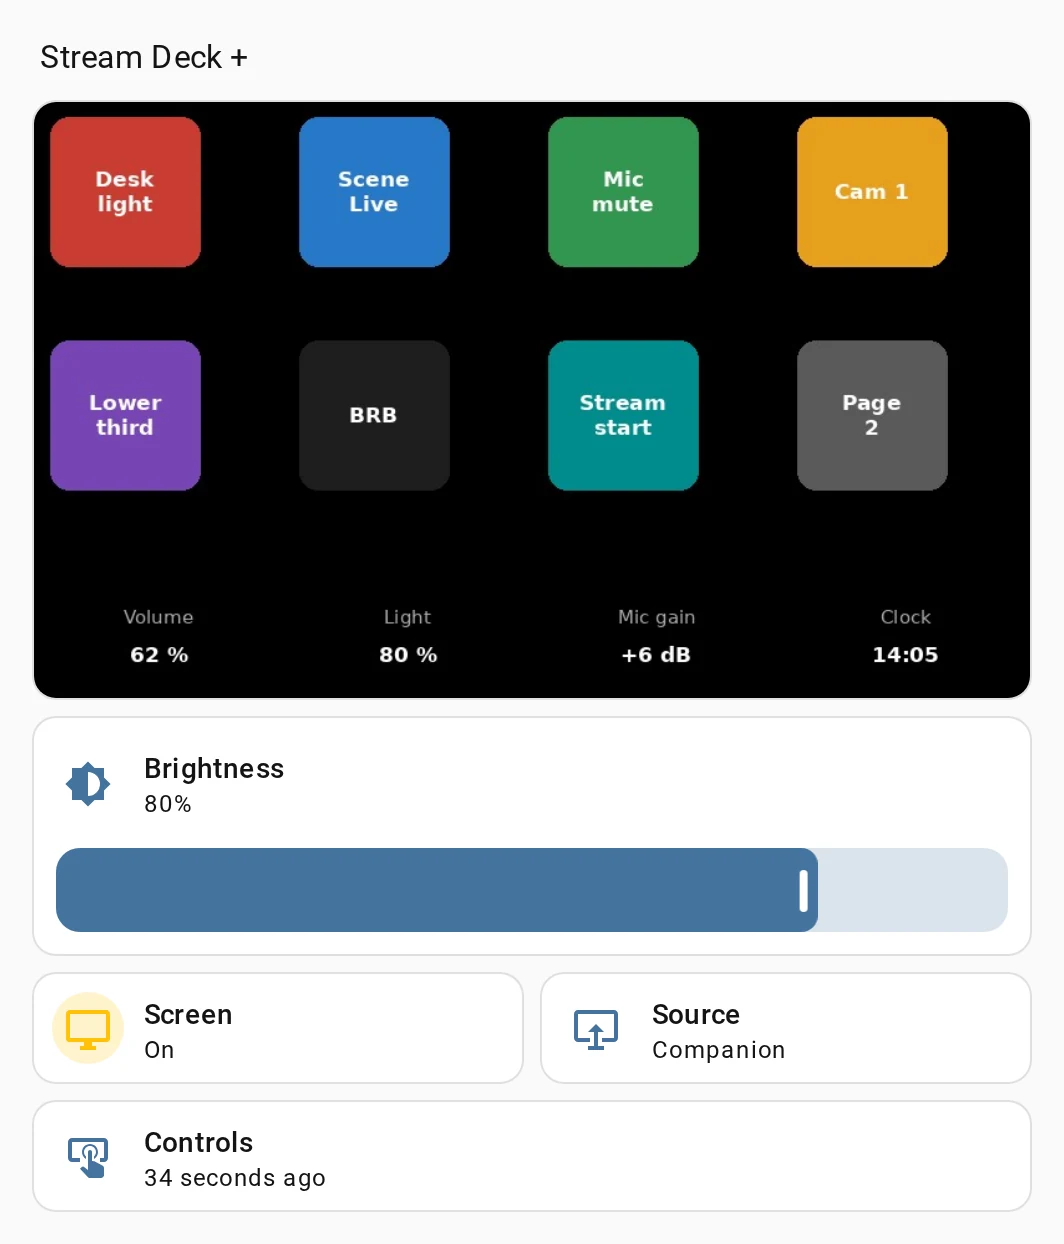
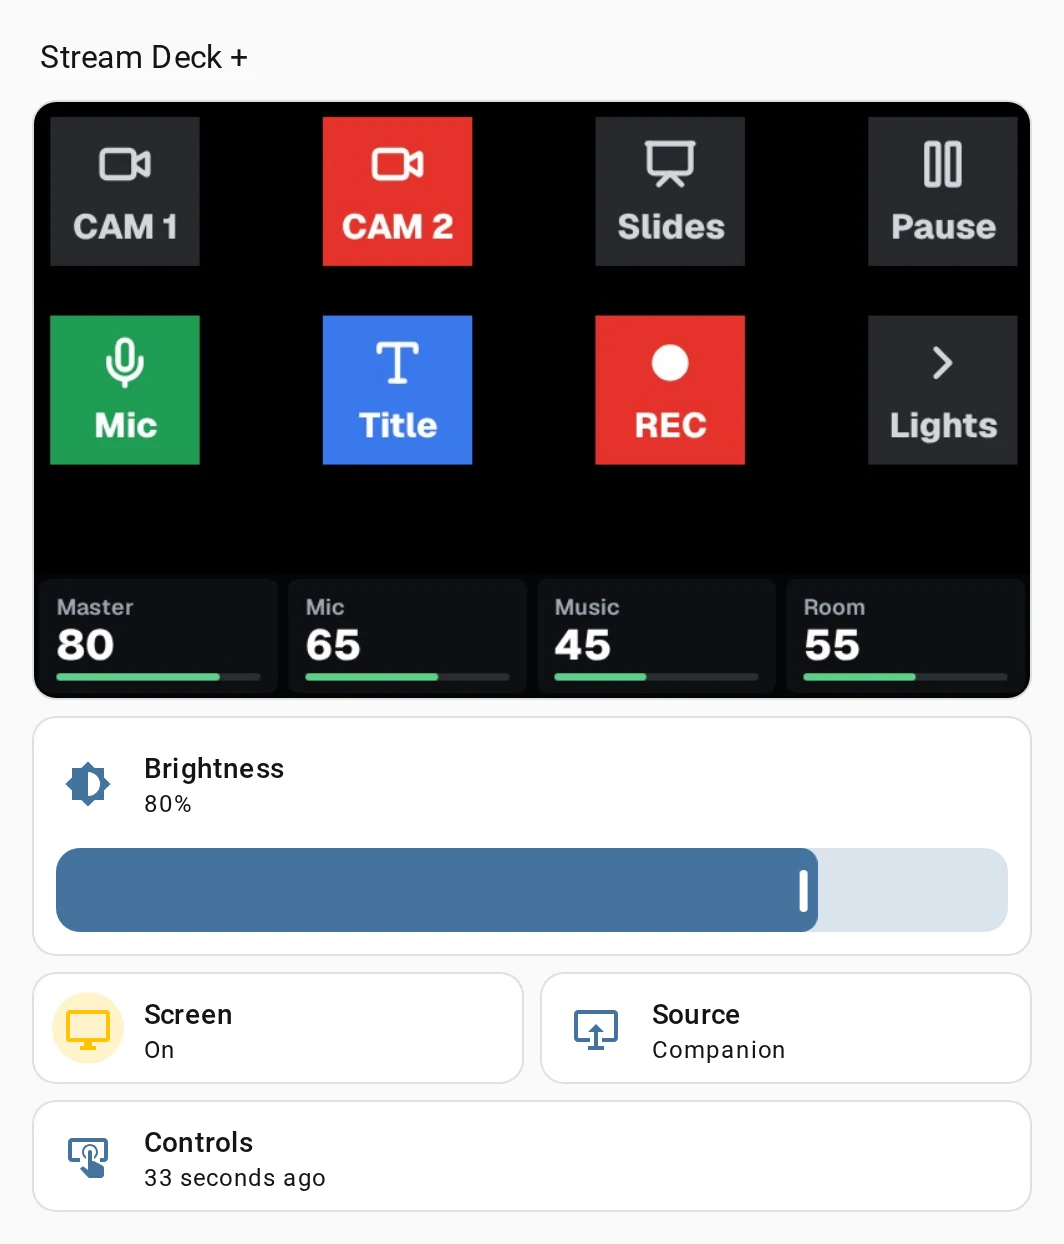
README: pictures first, the web UI GIF re-recorded and Home Assistant shown by its device pages; demo keys are grey when off and one colour per meaning when on

diff --git a/web/src/demo/model.ts b/web/src/demo/model.ts
@@ -1028,10 +1028,18 @@ export type Face = { keys: KeyFace[]; strip: { zones: StripZone[] } } | { ui: nu
 
 const pad = (n: number) => String(n).padStart(2, '0')
 
-const AMBER = '#ffb020'
-const TILE = '#2b2d31'
-const VIOLET = '#9b7bff'
-const INK = '#1a1200'
+const OFF = '#26282c'
+const GREY = '#d4d7dc'
+const C = {
+  live: { on: '#e5322b', fg: '#ff7b70', ink: '#fff' },
+  audio: { on: '#1f9d55', fg: '#5fd08c', ink: '#fff' },
+  light: { on: '#f5a524', fg: '#f5b748', ink: '#1a1200' },
+  show: { on: '#3a78ee', fg: '#82a9ff', ink: '#fff' },
+  nav: { on: '#3a3d43', ink: '#fff' },
+}
+const key = (t: string, site: SiteIcon, c: keyof typeof C, on = false): KeyFace =>
+  on ? { t, site, bg: C[c].on, fg: C[c].ink } : { t, site, bg: OFF, fg: GREY }
+const mic = (on: boolean) => (on ? key('Mic', 'mic', 'audio', true) : key('Muted', 'mic-off', 'live'))
 
 function faceEn(s: Demo, now: number): Face {
   const f = s.faces
@@ -1041,20 +1049,17 @@ function faceEn(s: Demo, now: number): Face {
   // The bridge's own screen: the firmware's db_ui code draws it (deck-ui.ts).
   if (w === 'ui') return { ui: ui(s, now, (u) => u.deck_screen(s.ota ? 1 : 0), uiModel(s, now)) }
   if (w === 'satellite' || isCompDock(s, w)) {
-    // The show page of the animations on the website: same labels, same colours.
     if (f.page === 0)
       return {
         keys: [
-          ...(['CAM 1', 'CAM 2', 'Slides'] as const).map((t, i): KeyFace => ({
-            t,
-            site: i < 2 ? 'cam' : 'slides',
-            bg: f.scene === i ? '#ff4b3e' : TILE,
-          })),
-          { t: 'Pause', site: 'pause', bg: f.pause ? VIOLET : TILE, fg: f.pause ? '#140d26' : undefined },
-          f.mic ? { t: 'ON', site: 'mic', bg: '#30c060' } : { t: 'OFF', site: 'mic', bg: TILE, fg: '#ff7a70' },
-          { t: 'Title', site: 'title', bg: f.title ? AMBER : TILE, fg: f.title ? INK : undefined },
-          { t: 'REC', site: 'rec', bg: TILE, dot: f.rec ? '#ff4b3e' : '#5a2420' },
-          { t: 'Lights', site: 'next', bg: TILE },
+          ...(['CAM 1', 'CAM 2', 'Slides'] as const).map((t, i) =>
+            key(t, i < 2 ? 'cam' : 'slides', 'live', f.scene === i),
+          ),
+          key('Pause', 'pause', 'show', f.pause),
+          mic(f.mic),
+          key('Title', 'title', 'show', f.title),
+          { ...key('REC', 'rec', 'live', f.rec), dot: f.rec ? '#fff' : C.live.fg },
+          key('Lights', 'next', 'nav'),
         ],
         strip: {
           zones: ['Master', 'Mic', 'Music', 'Room'].map((t, i) => ({
@@ -1062,20 +1067,18 @@ function faceEn(s: Demo, now: number): Face {
             v: f.vol[i] ?? 0,
             text: f.mute[i] ? 'muted' : String(f.vol[i]),
             off: f.mute[i],
-            color: i === 1 ? '#3ddc84' : '#ffb020',
+            color: C.audio.fg,
           })),
         },
       }
     return {
       keys: [
-        ...['Front', 'Fill', 'Rim'].map((t, i): KeyFace =>
-          f.lights[i] ? { t, site: 'light', bg: AMBER, fg: INK } : { t, site: 'light', bg: TILE },
-        ),
-        { t: 'BRB', site: 'coffee', bg: f.brb ? VIOLET : TILE, fg: f.brb ? '#140d26' : undefined },
-        { t: 'Wall', site: 'palette', bg: f.wall ? '#2f7dff' : TILE },
-        { t: 'All off', site: 'power', bg: TILE, fg: '#ff7a70' },
-        { t: clock, sub: 'Clock', bg: TILE, clock: true },
-        { t: 'Show', site: 'back', bg: TILE },
+        ...['Front', 'Fill', 'Rim'].map((t, i) => key(t, 'light', 'light', f.lights[i])),
+        key('BRB', 'coffee', 'show', f.brb),
+        key('Wall', 'palette', 'light', f.wall),
+        { ...key('All off', 'power', 'nav'), fg: C.live.fg },
+        { t: clock, sub: 'Clock', bg: OFF, fg: GREY, clock: true },
+        key('Show', 'back', 'nav'),
       ],
       strip: {
         zones: [
@@ -1084,14 +1087,14 @@ function faceEn(s: Demo, now: number): Face {
             v: f.light[0] ?? 0,
             text: f.lights[0] ? `${f.light[0]}%` : 'off',
             off: !f.lights[0],
-            color: '#ffcf5a',
+            color: C.light.fg,
           },
           {
             t: 'Fill',
             v: f.light[1] ?? 0,
             text: f.lights[1] ? `${f.light[1]}%` : 'off',
             off: !f.lights[1],
-            color: '#ffcf5a',
+            color: C.light.fg,
           },
           { t: 'Colour', v: (((f.light[2] ?? 4800) - 2900) / 4100) * 100, text: `${f.light[2]} K`, color: '#9fd3ff' },
           {
@@ -1099,7 +1102,7 @@ function faceEn(s: Demo, now: number): Face {
             v: f.light[3] ?? 0,
             text: f.lights[2] ? `${f.light[3]}%` : 'off',
             off: !f.lights[2],
-            color: '#ffcf5a',
+            color: C.light.fg,
           },
         ],
       },
@@ -1108,16 +1111,14 @@ function faceEn(s: Demo, now: number): Face {
   if (w.startsWith('dock'))
     return {
       keys: [
-        f.play ? { t: 'Pause', site: 'pause', bg: '#8c9cff', fg: '#0d1030' } : { t: 'Play', site: 'play', bg: TILE },
-        { t: 'Next', site: 'skip', bg: TILE },
-        f.lights[0] ? { t: 'Light', site: 'light', bg: AMBER, fg: INK } : { t: 'Light', site: 'light', bg: TILE },
-        f.appMute[3]
-          ? { t: 'Muted', site: 'mic-off', bg: TILE, fg: '#ff7a70' }
-          : { t: 'Mic', site: 'mic', bg: '#30c060' },
-        { t: 'Shot', site: 'camera', bg: TILE },
-        { t: 'Focus', site: 'moon', bg: f.focus ? VIOLET : TILE, fg: f.focus ? '#140d26' : undefined },
-        f.lights[1] ? { t: 'Desk', site: 'sun', bg: AMBER, fg: INK } : { t: 'Desk', site: 'sun', bg: TILE },
-        { t: clock, sub: 'Clock', bg: TILE, clock: true },
+        f.play ? key('Pause', 'pause', 'show', true) : key('Play', 'play', 'show'),
+        key('Next', 'skip', 'show'),
+        key('Light', 'light', 'light', f.lights[0]),
+        mic(!f.appMute[3]),
+        key('Shot', 'camera', 'show'),
+        key('Focus', 'moon', 'show', f.focus),
+        key('Desk', 'sun', 'light', f.lights[1]),
+        { t: clock, sub: 'Clock', bg: OFF, fg: GREY, clock: true },
       ],
       strip: {
         zones: ['System', 'Music', 'Browser', 'Mic'].map((t, i) => ({
@@ -1125,7 +1126,7 @@ function faceEn(s: Demo, now: number): Face {
           v: f.appVol[i] ?? 0,
           text: f.appMute[i] ? 'muted' : `${f.appVol[i]}%`,
           off: f.appMute[i],
-          color: '#8c9cff',
+          color: i === 3 ? C.audio.fg : C.show.fg,
         })),
       },
     }
@@ -1153,8 +1154,6 @@ const DE: Record<string, string> = {
   Room: 'Saal',
   Slides: 'Folien',
   Title: 'Titel',
-  ON: 'AN',
-  OFF: 'AUS',
   muted: 'stumm',
   Front: 'Haupt',
   Rim: 'Hinten',

diff --git a/web/src/demo/model.test.ts b/web/src/demo/model.test.ts
@@ -33,20 +33,17 @@ describe('demo bridge', () => {
 
   it('presses toggle keys, page over and turn dials within 0 to 100', () => {
     const s = demo()
-    expect(host(s).keys.map((k) => k.t)).toEqual(['CAM 1', 'CAM 2', 'Slides', 'Pause', 'ON', 'Title', 'REC', 'Lights'])
+    expect(host(s).keys.map((k) => k.t)).toEqual(['CAM 1', 'CAM 2', 'Slides', 'Pause', 'Mic', 'Title', 'REC', 'Lights'])
     input(s, T0, { key: 4 })
-    expect(host(s).keys[4]?.t).toBe('OFF')
+    expect(host(s).keys[4]?.t).toBe('Muted')
     input(s, T0, { encoder: 0, action: 'turn', ticks: 50 })
     expect(s.faces.vol[0]).toBe(100)
     input(s, T0, { key: 7 })
     expect(host(s).keys[0]?.t).toBe('Front')
     expect(s.inputs.map((e) => e.kind)).toEqual(['key_down', 'key_up', 'encoder_turn', 'key_down', 'key_up'])
     input(s, T0, { key: 5 })
-    expect(
-      host(s)
-        .keys.slice(0, 5)
-        .map((k) => k.bg),
-    ).toEqual(Array(5).fill('#2b2d31'))
+    const [front, fill, rim, , wall] = host(s).keys.map((k) => k.bg)
+    expect([fill, rim, wall]).toEqual([front, front, front])
   })
 
   it('mutes the Elgato App mic from its key and from the dial alike', () => {
@@ -64,7 +61,7 @@ describe('demo bridge', () => {
     view.lang = 'de'
     const f = host(s)
     view.lang = 'en'
-    expect([f.keys[2]?.t, f.keys[4]?.t]).toEqual(['Folien', 'AN'])
+    expect([f.keys[2]?.t, f.keys[4]?.t]).toEqual(['Folien', 'Mikro'])
     s.requested = true
     s.request = { ip: '192.168.1.52', name: 'stage-laptop', at: T0 }
     tick(s, T0 + 59_000)

diff --git a/README.md b/README.md
@@ -17,21 +17,27 @@
 </p>
 
 <p align="center">
-  <img src=".github/assets/web-ui.gif" width="860" alt="The web UI with the live deck: a key, a dial, a folder, the Elgato App takes over, the brightness goes down and up">
+  <img src=".github/assets/web-ui.gif" width="860" alt="The web UI with the live deck: a scene key, a dial, the lights folder, the Elgato App takes over, the brightness goes down and up">
 </p>
+
+<table align="center">
+  <tr>
+    <th colspan="2">Home Assistant</th>
+  </tr>
+  <tr>
+    <td valign="top"><img src=".github/assets/ha-connector.webp" width="384" alt="The connector in Home Assistant: brightness, find, screen, controller, restart, screen off after and volume"></td>
+    <td valign="top"><img src=".github/assets/ha-screen.webp" width="330" alt="The deck picture in Home Assistant"><br><img src=".github/assets/ha-deck.webp" width="330" alt="A deck in Home Assistant: PIN lock, screen picture, source and the controls event"></td>
+  </tr>
+</table>
 
 - Companion connects over Satellite or as a Network Dock. The Elgato App sees a Network Dock.
 - Several programs connect at once. You pick the one that draws.
 - Several decks on one connector.
 - Ethernet with PoE, and Wi-Fi with a backup network.
-- Home Assistant gets every key press, sets the brightness and turns the screen off.
+- Home Assistant gets every key press and the deck picture. It sets the brightness and the volume, and picks the program that draws.
 - Matter firmware, tested with Home Assistant. Apple Home and Google Home are not tested yet.
 - The web UI shows the live deck, and you can press its keys.
 - Log in with a passkey, or confirm the login on the deck.
-
-<p align="center">
-  <img src="site/public/docs/ha-live-en.gif" width="860" alt="Home Assistant: a key press shows up in the deck picture and as an event, the brightness dims the picture, the screen goes off and on">
-</p>
 
 ## Get started
 
